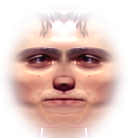
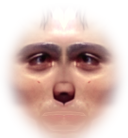
Giacca rigida e squadrata per il completo; volto di Leonardo con le proporzioni giuste (una sola bocca)

Changed region(s): [[0.125, 0.087, 0.875, 0.7826], [0.6562, 0.9275, 0.6875, 0.9855], [0.3125, 0.9275, 0.3438, 0.9855]]

diff --git a/src/game/wrestlerModel.js b/src/game/wrestlerModel.js
@@ -111,6 +111,23 @@ export async function loadWrestlerModels() {
   hatRef.fwd = fwd.clone().transformDirection(body.matrixWorld);
   hatRef.k = new THREE.Vector3(1, 0, 0).applyMatrix4(body.matrixWorld).sub(new THREE.Vector3().applyMatrix4(body.matrixWorld)).length();
 
+  // giacca rigida (completo): sezione del tronco a varie altezze, braccia escluse, nel sistema del corpo
+  const jacketRings = [];
+  {
+    const pos = body.geometry.attributes.position, arm = body.geometry.attributes.aArm;
+    const pts = [];
+    for (let i = 0; i < pos.count; i++) if (arm.getX(i) < 0.15) pts.push(new THREE.Vector3().fromBufferAttribute(pos, i).applyMatrix3(basis));
+    const yHem = L.pelvis.y - 0.15, yTop = L.neck.y - 0.03;
+    for (let k = 0; k <= 14; k++) {
+      const y = yHem + ((yTop - yHem) * k) / 14;
+      let ax = 0, zf = -1, zb = 1;
+      for (const p of pts) if (Math.abs(p.y - y) < 0.025) { ax = Math.max(ax, Math.abs(p.x)); zf = Math.max(zf, p.z); zb = Math.min(zb, p.z); }
+      jacketRings.push({ y, ax, zf, zb });
+    }
+  }
+  // dal sistema del corpo allo spazio del mondo (a riposo)
+  const bodyToWorld = new THREE.Matrix4().setFromMatrix3(basis.clone().transpose()).premultiply(body.matrixWorld);
+
   const box = new THREE.Box3().setFromObject(scene, true);
   const height = box.max.y - box.min.y;
   // misure reali (m) dello scheletro, per altezza dei fianchi e lunghezza delle gambe
@@ -131,6 +148,7 @@ export async function loadWrestlerModels() {
     scene, clips, body, basis, L, eye, metric, height, groundOffset: box.min.y,
     hairs: hairs.map((h) => h.scene), lightSkin, faces, hatRef,
     headRestInv: bone('Head').matrixWorld.clone().invert(),
+    jacketRings, bodyToWorld, spineRestInv: bone('spine_02').matrixWorld.clone().invert(),
   };
 }
 
@@ -147,6 +165,53 @@ function trimBangs(m, cut = 0) {
       .replace('void main() {', `void main() {\n  if ((vHairP.z > 0.01 && abs(vHairP.x) < 0.098 && vHairP.y < 1.75) || vHairP.y < ${cut.toFixed(3)}) discard;`);
   };
   m.customProgramCacheKey = () => `bwt-hair-long-${cut}`;
+}
+
+// giacca rigida e squadrata (completo): tubo dal collo a sotto i fianchi, spalle dritte, aperta davanti sulla camicia
+// fino al bottone, risvolti in raso scuro. Costruita nel sistema del corpo (x sinistra, y su, z avanti).
+function jacketMesh(models, color) {
+  const { L, jacketRings } = models;
+  const shoulderX = Math.abs(L.armL.x) + 0.035;
+  const yBtn = L.spine1.y + 0.02, yV = L.spine3.y - 0.17, yHem = jacketRings[0].y;
+  const rings = jacketRings.map((r, i) => {
+    const sh = THREE.MathUtils.smoothstep(r.y, L.spine3.y - 0.05, L.spine3.y + 0.08);   // spalle imbottite
+    const flare = THREE.MathUtils.smoothstep(r.y, L.pelvis.y + 0.05, yHem) * 0.03;      // falde
+    return { y: r.y, ax: Math.max(r.ax + 0.045 + flare, shoulderX * sh), zf: r.zf + 0.04 + flare, zb: r.zb - 0.04 - flare * 0.5, last: i === jacketRings.length - 1 };
+  });
+  const top = rings[rings.length - 1];
+  rings.push({ y: top.y + 0.035, ax: 0.085, zf: top.zf - 0.03, zb: top.zb + 0.02 });   // colletto attorno al collo
+  const N = 48, n = 3;   // colonne, esponente della superellisse (sezione squadrata)
+  const sp = (v) => Math.sign(v) * Math.abs(v) ** (2 / n);
+  const base = new THREE.Color(color), lapel = new THREE.Color(0x0b0b0e), hem = base.clone().multiplyScalar(0.55);
+  const P = [], C = [], I = [];
+  rings.forEach((r, i) => {
+    // mezza apertura davanti (angolo): a V sopra il bottone, appena socchiusa sotto
+    const vee = 0.02 + Math.max(0, r.y - yV) * 0.4;
+    let g = r.y > yBtn ? Math.max(0.06, Math.asin(Math.min(0.95, vee / r.ax))) : 0.06 + 0.22 * (yBtn - r.y) / (yBtn - yHem);
+    if (i === rings.length - 1) g = rings[i - 1].g;
+    r.g = g;
+    const zc = (r.zf + r.zb) / 2, b = (r.zf - r.zb) / 2;
+    for (let j = 0; j <= N; j++) {
+      const phi = g + ((Math.PI * 2 - 2 * g) * j) / N;
+      P.push(r.ax * sp(Math.sin(phi)), r.y, zc + b * sp(Math.cos(phi)));
+      const nearEdge = Math.min(phi - g, Math.PI * 2 - g - phi) < 0.3 && r.y > yBtn - 0.02;
+      (nearEdge ? lapel : i === 0 ? hem : base).toArray(C, C.length);
+    }
+  });
+  for (let i = 0; i < rings.length - 1; i++) {
+    for (let j = 0; j < N; j++) {
+      const a = i * (N + 1) + j, c = a + N + 1;
+      I.push(a, c, a + 1, a + 1, c, c + 1);
+    }
+  }
+  const geo = new THREE.BufferGeometry();
+  geo.setAttribute('position', new THREE.Float32BufferAttribute(P, 3));
+  geo.setAttribute('color', new THREE.Float32BufferAttribute(C, 3));
+  geo.setIndex(I);
+  geo.computeVertexNormals();
+  const mesh = new THREE.Mesh(geo, new THREE.MeshStandardMaterial({ vertexColors: true, roughness: 0.7, side: THREE.DoubleSide }));
+  mesh.castShadow = true;
+  return mesh;
 }
 
 // fascia sulla fronte (Guido), con l'origine sulla linea degli occhi
@@ -503,7 +568,7 @@ vec3 rainbow(float t) {
     // strato della giacca: solo tronco e maniche (aperto davanti sulla camicia), sotto i pantaloni larghi
     float hem = yPelvis - 0.06;
     bool sleeve = ax > uArmX * 0.75 && along < -0.035 && p.y > yWaist;
-    bool torso = ax < uArmX * 1.05 && p.y > hem && p.y < yNeck - 0.01;
+    bool torso = false;   // il busto è la giacca rigida (jacketMesh)
     if (!(sleeve || torso)) {
       if (!(leg && p.y > yFoot + 0.01)) discard;
       col = uTrunks; cloth = 1.0;                                                  // pantaloni
@@ -564,11 +629,18 @@ export class WrestlerRig {
     if (look.top?.kind === 'completo') {
       let body = null;
       inst.traverse((o) => { if (o.name === models.body.name) body = o; });
-      const jacket = new THREE.SkinnedMesh(body.geometry, gearMaterial(body.material, models, look, true));
-      jacket.bind(body.skeleton, body.bindMatrix);
-      jacket.castShadow = true;
-      jacket.frustumCulled = false;
-      body.parent.add(jacket);
+      // maniche e pantaloni larghi: strato del corpo più largo sullo stesso scheletro
+      const loose = new THREE.SkinnedMesh(body.geometry, gearMaterial(body.material, models, look, true));
+      loose.bind(body.skeleton, body.bindMatrix);
+      loose.castShadow = true;
+      loose.frustumCulled = false;
+      body.parent.add(loose);
+      // busto della giacca: rigido, segue la schiena
+      const frame = new THREE.Group();
+      frame.matrixAutoUpdate = false;
+      frame.matrix.copy(models.spineRestInv).multiply(models.bodyToWorld);
+      frame.add(jacketMesh(models, look.top.color));
+      inst.getObjectByName('spine_02')?.add(frame);
     }
 
     this.bulk = look.slim || look.lean ? SLIM_BONES : BULK_BONES;

diff --git a/tools/build-faces.py b/tools/build-faces.py
@@ -21,11 +21,11 @@ EYES = {
     'dozer': (131.5, 67, 13), 'zodiac': (147, 66, 20),
     'malpensa': (91, 80, 30), 'rangoni': (129, 32, 13),
     'mosquito': (147.5, 196, 75),   # maschera: centri dei fori degli occhi
-    'leonardo': (102.6, 71, 70),    # nell'immagine frontale ricostruita (vedi MIRROR)
+    'leonardo': (76, 71, 52),       # nell'immagine frontale ricostruita (vedi MIRROR)
 }
 # foto di tre quarti: si prende la metà del viso ben visibile (da x0 alla linea del naso xm, righe y0..y1),
 # la si allarga di k per compensare la rotazione e la si specchia, ottenendo un viso frontale
-MIRROR = {'leonardo': (236, 312, 40, 240, 1.35)}
+MIRROR = {'leonardo': (236, 312, 40, 240, 1.0)}
 # luci colorate sul viso (palazzetto): correzione per canale R, G, B
 COLOR_FIX = {'leonardo': (1.05, 1.08, 0.86)}
 # volti coperti da una maschera: la tinta della pelle si prende da questo riquadro (petto) invece che da fronte e guance

diff --git a/README.md b/README.md
@@ -81,7 +81,8 @@ staff: Liam Rangoni (presentatore, annuncia il match sul ring e poi resta a bord
 - `lean: true` nel roster: fisico asciutto e poco muscoloso indipendentemente dal peso (Zodiac).
 - Liam Rangoni porta sempre il cappello da cowboy (`hat` nel roster).
 - Arbitro e staff hanno un fisico normale (`slim`): arbitro con camicia a righe, colletto e pantaloni lunghi; staff in giacca e cravatta.
-  Il completo ha una giacca 3D vera (secondo strato del corpo, più largo, sullo stesso scheletro) con risvolti in raso, pantaloni larghi e scarpe.
+  Il completo ha una giacca 3D rigida e squadrata (`jacketMesh`, agganciata alla schiena) con risvolti in raso; maniche e pantaloni larghi
+  sono un secondo strato del corpo sullo stesso scheletro; scarpe nere.
 - Leonardo Bulgari Jr: fascia nera sul braccio (`armband`). La sua foto (`leonardo.png`) è di tre quarti: lo script dei volti ricostruisce
   un viso frontale specchiando la metà visibile (`MIRROR`), corregge le luci colorate (`COLOR_FIX`), schiarisce l'ombra sul mento (`SOFT_CHIN`)
   e sfuma la fronte sotto i capelli (`TOP_FADE`).
